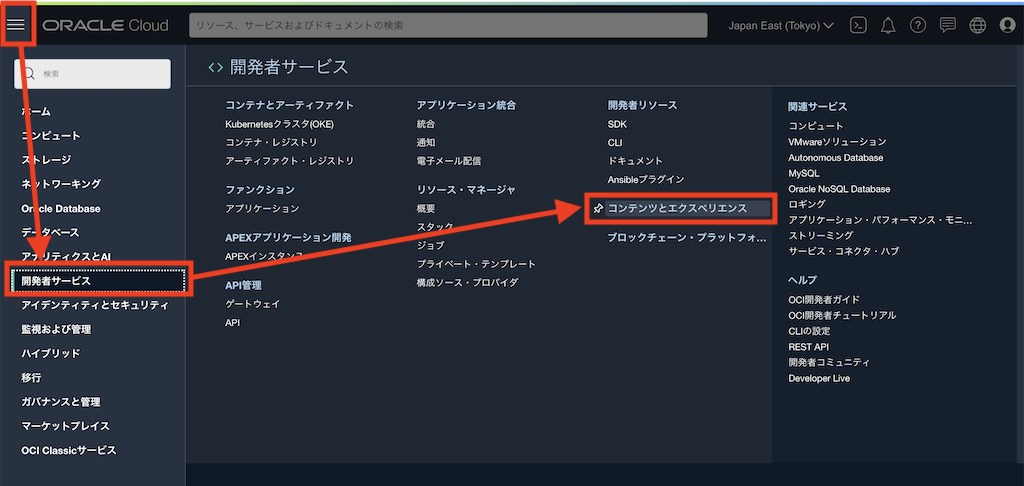
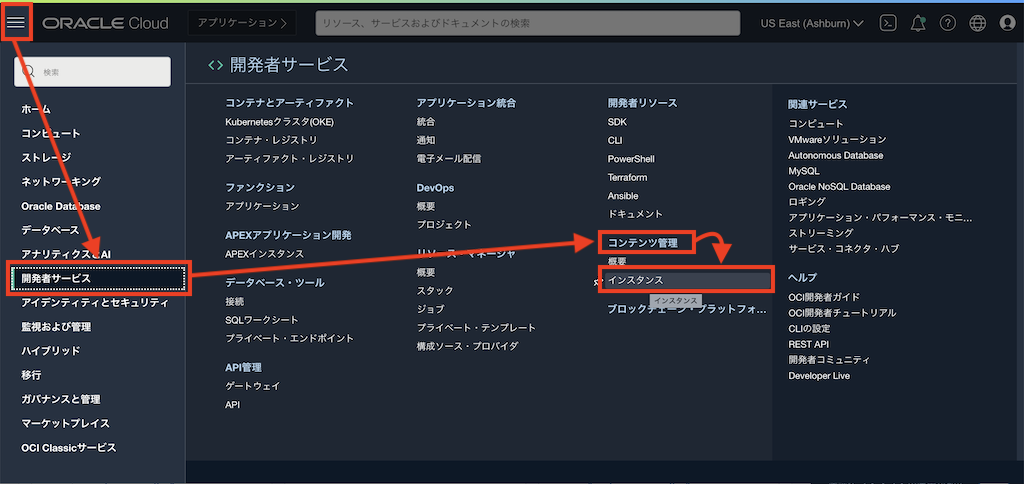
OCE→OCMサービス名称変更に伴う修正（準備編）

diff --git a/_pages/content-management.md b/_pages/content-management.md
@@ -11,16 +11,15 @@ toc: true
 2021年6月リリースのバージョン21.6.1より、サービス名称が *Oracle Content and Experience(略称:OCE)* から **Oracle Content Management(略称:OCM)** に変更されました。本チュートリアルを利用する際は、旧サービス名称を新しいサービス名称である **Oracle Content Management(OCM)** に読み替えてご利用ください。  
 {: .notice--info}
 
-この文書は、Oracle Content and Experience (OCE) を使ってみよう！という人のためのチュートリアルです。各文書ごとにステップ・バイ・ステップで作業を進めて、OCE が提供する機能について学習することができます
+この文書は、Oracle Content Management (OCM) を使ってみよう！という人のためのチュートリアルです。各文書ごとにステップ・バイ・ステップで作業を進めて、OCM が提供する機能について学習することができます
 
-# 準備 - OCE インスタンスの作成
+# 準備 - OCM インスタンスの作成
 
-+ **[Oracle Content and Experience インスタンスを作成する](/ocitutorials/content-management/create_oce_instance/)**  
-    Oracle Cloud Infrastructure (OCI) の管理コンソールを利用し、OCE インスタンスを作成します。まずはここから始めましょう
++ **[Oracle Content Management インスタンスを作成する](/ocitutorials/content-management/create_oce_instance/)**  
+    Oracle Cloud Infrastructure (OCI) の管理コンソールを利用し、OCM インスタンスを作成します。まずはここから始めましょう
 
-
-+ **[Oracle Content and Experience インスタンスの利用ユーザーを作成する](/ocitutorials/content-management/create_idcs_group_user/)**  
-    この文書は Oracle Content and Experience (OCE) を利用するユーザーをIDCSに作成する方法をステップ・バイ・ステップで紹介するチュートリアルです
++ **[Oracle Content Management インスタンスの利用ユーザーを作成する](/ocitutorials/content-management/create_idcs_group_user/)**  
+    この文書は Oracle Content Management (OCM) を利用するユーザーを IDCS に作成する方法をステップ・バイ・ステップで紹介するチュートリアルです
 
 + **[[Oracle Cloud] Oracle Content Management の Starter Edition をクイックスタートしてみた](https://qiita.com/nakasato310/items/9457a61d9d27db6ce4f0)**  
     この記事では、2021年7月の最新バージョン(21.6.1)より新たに追加された Oracle Content Management - Starter Edition をクイックスタートする方法を紹介します
